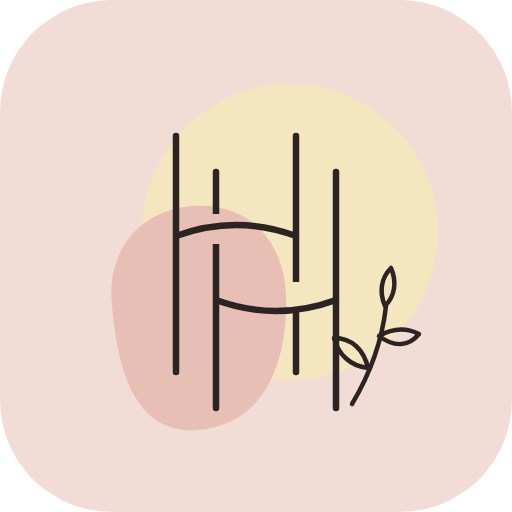
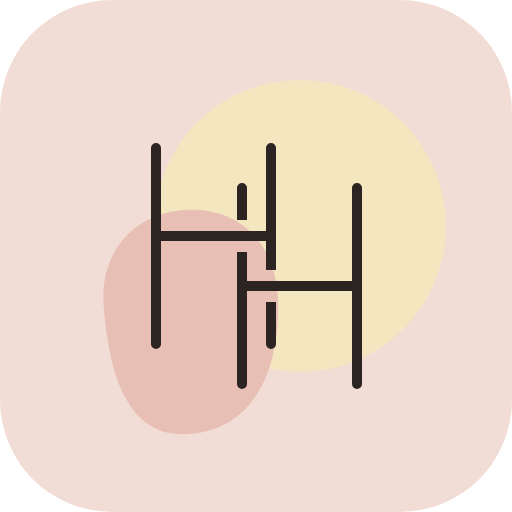
Clearer HH monogram, drop sprig
Claude-Session: https://claude.ai/code/session_01G61EMy9YyNjsUxbndq6wFf

Changed region(s): [[0.25, 0.25, 0.8438, 0.8125], [0.1875, 0.4688, 0.2812, 0.8125], [0.2812, 0.8125, 0.4062, 0.875]]

diff --git a/sw.js b/sw.js
@@ -1,5 +1,5 @@
 // Healthy Hannah service worker: precache the shell, serve offline, update in the background.
-const CACHE = 'hh-v1.1.0';
+const CACHE = 'hh-v1.1.1';
 const SHELL = ['./', 'index.html', 'styles.css', 'boot.js', 'app.js', 'manifest.webmanifest', 'icons/logo.svg', 'icons/icon-192.png', 'icons/icon-512.png', 'icons/apple-touch-icon.png', 'fonts/jost-latin.woff2'];
 self.addEventListener('install', e => { e.waitUntil(caches.open(CACHE).then(c => c.addAll(SHELL)).then(() => self.skipWaiting())); });
 self.addEventListener('activate', e => {

diff --git a/app.js b/app.js
@@ -2,7 +2,7 @@
 (function () {
 'use strict';
 
-const VERSION = '1.1.0';
+const VERSION = '1.1.1';
 const KEY = 'hh.v1';
 const DAYS = ['Sun', 'Mon', 'Tue', 'Wed', 'Thu', 'Fri', 'Sat'];
 const DAYS_LONG = ['Sunday', 'Monday', 'Tuesday', 'Wednesday', 'Thursday', 'Friday', 'Saturday'];
